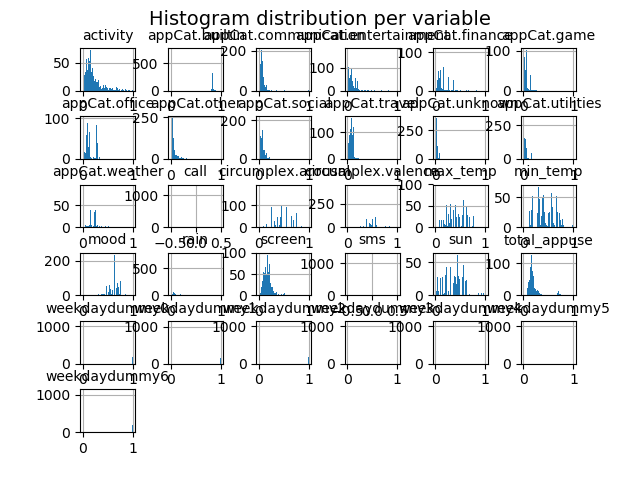
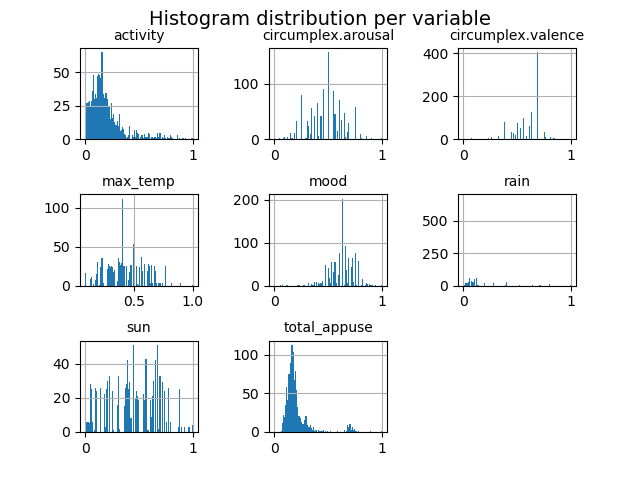
lalala

diff --git a/Assignment1/autocorrelation_check.py b/Assignment1/autocorrelation_check.py
@@ -6,7 +6,7 @@ import pivot
 
 def autocorrelation(file):
 
-    '''Checking for autocorrelation within mood variable''''
+    '''Checking for autocorrelation within mood variable'''
 
     df = pd.read_csv(file)
 
@@ -43,6 +43,9 @@ def corr_with_lag(file, col, lags=5):
 
         colname = col + "_lag" + str(lag+1)
         data_lag.plot(x='mood', y=colname, style='o')
+        plt.title("Lag plot for mood versus " + col)
+        plt.xlabel("Mood at current timepoint")
+        plt.ylabel(col + " at " + str(lag+1) + " timesteps ago")
         plt.show()
 
     print(data_lag.head())
@@ -52,4 +55,4 @@ def corr_with_lag(file, col, lags=5):
     return data_lag
 
 #autocorrelation('cleaned_normalized.csv')
-corr_with_lag('cleaned_normalized.csv', 'rain')
+corr_with_lag('cleaned_normalized.csv', 'circumplex.valence')

diff --git a/Assignment1/plot.py b/Assignment1/plot.py
@@ -1,0 +1,20 @@
+import pandas as pd
+import matplotlib
+matplotlib.use('TkAgg')
+import matplotlib.pyplot as plt
+
+def plot_hist(data):
+
+    cols = cols_to_keep = ["mood", "sun", \
+        "rain", "max_temp", "total_appuse", "activity", "circumplex.arousal", \
+        "circumplex.valence"]
+
+    fig = data.hist(column=cols, bins=100)
+    [x.title.set_size(10) for x in fig.ravel()]
+    plt.suptitle("Histogram distribution per variable", fontsize = 14)
+    plt.subplots_adjust(left=0.125, right=0.9, bottom=0.1, top=0.9, wspace=0.6, hspace=0.6)
+    plt.savefig('results/histograms.png')
+
+
+data = pd.read_csv("with_features.csv")
+plot_hist(data)

diff --git a/Assignment1/benchmark.py b/Assignment1/benchmark.py
@@ -19,7 +19,15 @@ def benchmark(file):
     # we can only do this for observations with 1 day in between
     data = data[data["time"].diff() == 24].dropna()
 
+    data["accuratehighbound"] = data["mood"] < data["predicted_mood"] * 1.05
+    data["accuratelowbound"] =  data["mood"] > data["predicted_mood"] * 0.95
+    data["accurate"] = data[["accuratelowbound", "accuratehighbound"]].all(axis='columns')
+
     print(data.head())
+
+    accuracy = data["accurate"].sum() / data["accurate"].count()
+    print(accuracy)
+
     rsquared = r2_score(data["mood"], data["predicted_mood"])
     mse = mean_squared_error(data["mood"], data["predicted_mood"])
 

diff --git a/Assignment1/preprocess.py b/Assignment1/preprocess.py
@@ -114,7 +114,7 @@ def clean(data):
 
     # verification - plot distributions per variable
     # print(cleaned_df.head())
-    fig = cleaned_df.hist(column=columns_to_scale, bins=100)
+    fig = cleaned_df[columns_to_scale].hist(column=columns_to_scale, bins=100)
     [x.title.set_size(10) for x in fig.ravel()]
     plt.suptitle("Histogram distribution per variable", fontsize = 14)
     plt.subplots_adjust(left=0.125, right=0.9, bottom=0.1, top=0.9, wspace=0.6, hspace=0.6)
